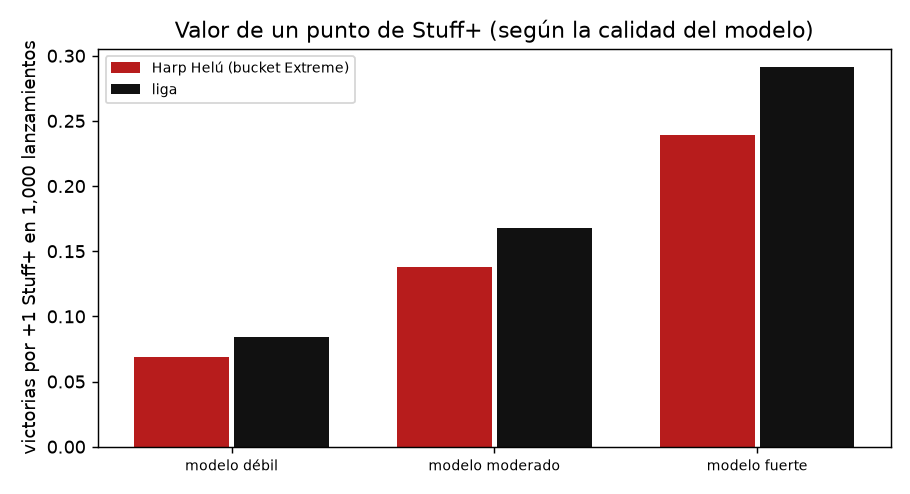
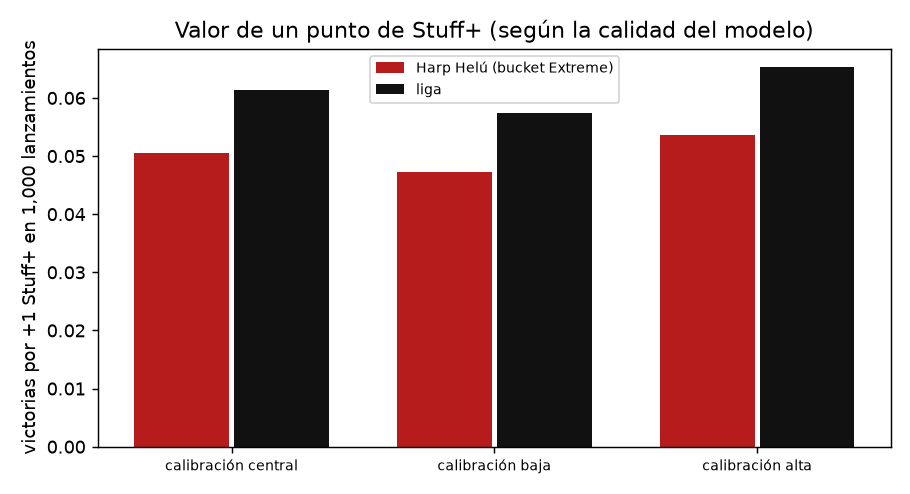
feat(value): real Stuff+ sigma from bundle v1 + out-of-fold calibration slope; drop assumed scenarios (HACK-035 follow-up, joahan-1 #118)
Claude-Session: https://claude.ai/code/session_012QvTm5JZKjKqvrSQeErsZd

diff --git a/analysis/business_value/run.py b/analysis/business_value/run.py
@@ -14,8 +14,10 @@ import matplotlib.pyplot as plt
 import numpy as np
 import pandas as pd
 
-from stuffplus import targets
+from analysis.stuff_model import run as stuff_run
+from stuffplus import splits
 from stuffplus import value as V
+from stuffplus.bundle import load_bundle
 from stuffplus.io import load_raw
 from stuffplus.physics import parks
 from stuffplus.schema import clean
@@ -24,15 +26,14 @@ warnings.filterwarnings("ignore")
 OUT = Path("reports/business_value")
 OUT.mkdir(parents=True, exist_ok=True)
 NO, MED, EXT = "No Altitude", "Medium Altitude", "Extreme Altitude"
-R2_SCENARIOS = {"modelo débil (R²=0.25 % del xRV)": 0.0025, "modelo moderado (R²=1 %)": 0.01, "modelo fuerte (R²=3 %)": 0.03}
 PITCH_GRID = (100, 500, 1000, 2500)
 RED, BLACK = "#B71C1C", "#111111"
 
 raw = clean(load_raw())
-df, _, _ = targets.build(raw)
+df = stuff_run.prepare(raw)  # targets (rv_x) + rasgos; mismo marco con el que se entrena Stuff+
 
 # --- 1. marcadores, equipo-temporadas y exponente pitagórico
-scores = V.game_scores(df)
+scores = V.game_scores(raw)
 maps = parks.load_maps(raw)
 pm = maps["park_map"].drop_duplicates("game_anon_id").set_index("game_anon_id")
 ts = V.team_seasons(scores, pm)
@@ -68,9 +69,20 @@ pitches_per_start = float(per_start.median())
 games_per_team_season = float(ts["games"].median())
 home_starts = max(int(round(games_per_team_season / 2 / 5)), 1)  # juegos de local por temporada en los datos / rotación de 5
 
-# --- 4. escenarios de σ(xRV predicho) y tabla de conversión
+# --- 4. σ real del Stuff+ (bundle v1) y calibración fuera de muestra → carreras por punto
+bundle = load_bundle()
+st = bundle.manifest["scalers"]["stuff"]["stats"]
+sigma = float(st["__all__"]["sd"])
+sigma_years = {k: float(v["sd"]) for k, v in st.items() if k != "__all__"}
+folds = list(splits.pitcher_group_kfold(df))
+oof = stuff_run.StuffModel().oof(df, folds)  # xRV predicho fuera de muestra, por pitcher
+cal = V.calibration_slope(oof["xrv"].to_numpy(float), df["rv_x"].to_numpy(float), df["pitcher_anon_id"].to_numpy())
+pd.DataFrame([dict(sigma_scaler_all=sigma, **{f"sigma_{k}": v for k, v in sigma_years.items()}, **cal,
+                   bundle_version=bundle.manifest["version"], bundle_created=bundle.manifest["created_at"])]).round(6).to_csv(
+    OUT / "stuff_scale_calibration.csv", index=False)
 sd_rv = float(df["rv_x"].std())
-sigmas = {k: V.sigma_from_variance_explained(sd_rv, r2) for k, r2 in R2_SCENARIOS.items()}
+sigmas = {"calibración central": sigma * cal["slope"], "calibración baja (IC 2.5 %)": sigma * cal["lo"],
+          "calibración alta (IC 97.5 %)": sigma * cal["hi"]}  # σ efectiva: realizado = pendiente × predicho
 conv = V.conversion_table(sigmas, PITCH_GRID, {"liga": rpw["liga"], "Harp Helú (bucket Extreme)": rpw[EXT]})
 conv.round(5).to_csv(OUT / "conversion_table.csv", index=False)
 
@@ -111,9 +123,11 @@ lines = [
     f"**Lectura:** en el Harp Helú (bucket Extreme) se anota más, así que cada carrera ahorrada vale **menos** victorias que en la liga "
     f"({rpw[EXT]:.1f} vs {rpw['liga']:.1f} carreras por victoria).", "",
     "## Tabla de conversión: +1 punto de Stuff+ → carreras → victorias", "",
-    "Por definición de la escala (HACK-013), 1 punto = 0.1 σ del xRV *predicho* por lanzamiento. Esa σ depende del modelo final (HACK-010/012), "
-    "que todavía no está integrado, así que se muestran **escenarios de calidad del modelo** (fracción de la varianza del `rv_x` por lanzamiento que explica; "
-    f"σ(rv_x) = {sd_rv:.3f}). **No son resultados del modelo**: cuando exista el bundle final se sustituye la σ real en `analysis/business_value/run.py`.", "",
+    f"Por definición de la escala (HACK-013), 1 punto = 0.1 σ del xRV predicho por lanzamiento, y σ sale del **bundle {bundle.manifest['version']}** "
+    f"(`scalers.stuff.stats`, creado {bundle.manifest['created_at']}): σ = {sigma:.5f} carreras por lanzamiento (por temporada {', '.join(f'{k}: {v:.5f}' for k, v in sigma_years.items())}). "
+    f"Las carreras *realizadas* por carrera predicha se miden fuera de muestra (validación cruzada por pitcher): pendiente de calibración **{cal['slope']:.2f}** "
+    f"[IC 95 % por pitcher {cal['lo']:.2f}, {cal['hi']:.2f}] sobre {cal['n']:,} lanzamientos. Entonces +1 punto ≈ {sigma * cal['slope'] * 0.1:.2e} carreras por lanzamiento "
+    "(filas «calibración baja/alta» = extremos del IC). Sin escenarios supuestos: la σ y la calibración son del modelo real.", "",
     tbl(conv, ["escenario", "lanzamientos", "entorno", "carreras", "victorias"], "{:.4g}"), "",
     f"Referencia: un abridor lanza ~{pitches_per_start:.0f} lanzamientos por apertura (mediana de los datos).", "",
     "## Ejemplo: valor de un brazo a prueba de altura", "",
@@ -128,7 +142,9 @@ lines = [
     f"Brecha entre el brazo de alta pérdida y el de a prueba de altura: **{ex.attrs['gap_runs']:.1f} carreras ≈ {ex.attrs['gap_wins']:.2f} victorias** en esa temporada de aperturas en casa.", "",
     "## Advertencias", "",
     "- `rv_x` valora las bolas en juego con la altitud como rasgo (HACK-030): el costo de la altura incluye parte del modelo de contacto, no solo los lanzamientos.",
-    "- La tabla Stuff+ → carreras usa escenarios, no el modelo final (aún no integrado). Las cifras absolutas cambiarán; la fórmula y el cociente entre entornos no.",
+    "- La σ es la del bundle v1 reconstruido localmente con `analysis/stuff_model/run.py` (los bundles no se comparten por git); si el modelo se reentrena, hay que volver a correr este análisis.",
+    "- La calibración se mide sobre el xRV predicho fuera de muestra (modelo de cinco resultados), mientras la escala del bundle usa el modelo destilado (R² 0.92 con él): son aproximaciones del mismo modelo.",
+    "- A este nivel de calibración el valor de un punto por lanzamiento es pequeño: el efecto aparece en sumas grandes (mil lanzamientos o más) y en grupos de lanzamientos, no en un lanzamiento suelto.",
     "- Marcadores reconstruidos: partidos incompletos en los datos o carreras fuera de los lanzamientos pueden sesgar; los datos solo cubren una muestra de la temporada por equipo.",
     "- Linealización pitagórica válida cerca de un equipo promedio; ±1σ en sensibilidad supone dispersión aproximadamente normal.",
     "- La identidad CDMX vs Puebla sigue sin verificar (HACK-003): «entorno Extreme» agrupa los parques de altura.",

diff --git a/stuffplus/value.py b/stuffplus/value.py
@@ -6,8 +6,8 @@ Cadena:
 3. ``runs_per_win``: con W% = 1/(1+(RA/RS)^x) y r carreras por equipo-juego, una carrera menos permitida por juego
    vale x/(4r) de W%, o sea **carreras por victoria = 4r/x** (r mayor en altura ⇒ cada carrera vale menos).
 4. ``runs_per_stuff_point``: por definición de la escala (HACK-013), 1 punto de Stuff+ = 0.1·σ de xRV *predicho* por
-   lanzamiento; con un modelo calibrado, eso son carreras por lanzamiento. σ viene del modelo (bundle) o de un
-   escenario de varianza explicada; **no se inventa**: sin modelo final se presentan escenarios etiquetados.
+   lanzamiento; las carreras realizadas dependen de la pendiente de calibración fuera de muestra (``calibration_slope``).
+   σ viene del bundle del modelo (``scalers.stuff.stats``); no se inventa.
 5. ``conversion_table`` y ``altitude_proof_example``: puntos → carreras → victorias en casa (CDMX) y en la liga.
 """
 from __future__ import annotations
@@ -100,6 +100,28 @@ def runs_per_stuff_point(sigma_xrv: float, calibration: float = 1.0) -> float:
 
     ``sigma_xrv``: desviación estándar por lanzamiento del xRV *predicho* (la que usa ``PlusScaler``)."""
     return POINT_SD_FRACTION * float(sigma_xrv) * float(calibration)
+
+
+def calibration_slope(x, y, groups, n_boot: int = 1000, seed: int = SEED) -> dict:
+    """Pendiente de calibración de ``y`` (rv_x observado) sobre ``x`` (xRV predicho fuera de muestra): carreras realizadas
+    por carrera predicha. IC 95 % bootstrap por grupo (pitcher), con sumas por grupo (no recalcula nada por fila)."""
+    x, y = np.asarray(x, float), np.asarray(y, float)
+    ok = np.isfinite(x) & np.isfinite(y)
+    codes, uniq = pd.factorize(pd.Series(np.asarray(groups)[ok]))
+    k = len(uniq)
+    sums = {n: np.bincount(codes, weights=v, minlength=k) for n, v in
+            {"n": np.ones(ok.sum()), "x": x[ok], "y": y[ok], "xy": x[ok] * y[ok], "xx": x[ok] ** 2}.items()}
+
+    def slope(c):
+        n, sx, sy = c @ sums["n"], c @ sums["x"], c @ sums["y"]
+        return ((c @ sums["xy"]) - sx * sy / n) / ((c @ sums["xx"]) - sx**2 / n)
+
+    point = slope(np.ones(k))
+    rng = np.random.default_rng(seed)
+    boots = np.array([slope(rng.multinomial(k, np.full(k, 1 / k)).astype(float)) for _ in range(n_boot)])
+    lo, hi = np.percentile(boots, [2.5, 97.5])
+    return {"slope": float(point), "lo": float(lo), "hi": float(hi), "sd_x": float(x[ok].std()), "n": int(ok.sum()),
+            "n_groups": int(k)}
 
 
 def sigma_from_variance_explained(sd_rv: float, r2: float) -> float:

diff --git a/tests/test_value.py b/tests/test_value.py
@@ -72,6 +72,16 @@ def test_altitude_sensitivity_no_heterogeneity_gives_tau_zero_but_positive_bound
     assert s["tau"] < 0.012 and s["tau_hi"] > s["tau"] and s["mean_delta"] == pytest.approx(0.01, abs=0.004)
 
 
+def test_calibration_slope_recovers_planted_slope():
+    rng = np.random.default_rng(5)
+    n, g = 20000, 200
+    groups = rng.integers(0, g, n)
+    x = rng.normal(0, 0.01, n)
+    y = 0.6 * x + rng.normal(0, 0.2, n)  # modelo sobreestima: solo 0.6 de lo predicho se realiza
+    c = V.calibration_slope(x, y, groups, n_boot=300)
+    assert c["lo"] < 0.6 < c["hi"] and c["hi"] < 3.0 and c["n_groups"] == g
+
+
 def test_altitude_proof_example_orders_arms():
     ex = V.altitude_proof_example(0.010, 0.006, 90, 15, 15.0)
     assert ex.iloc[0].carreras_extra > ex.iloc[1].carreras_extra > ex.iloc[2].carreras_extra

diff --git a/reports/business_value/summary.md b/reports/business_value/summary.md
@@ -18,34 +18,34 @@ Exponente pitagórico **x = 1.90** (IC 95 % bootstrap 1.62–2.15, 60 equipo-tem
 
 ## Tabla de conversión: +1 punto de Stuff+ → carreras → victorias
 
-Por definición de la escala (HACK-013), 1 punto = 0.1 σ del xRV *predicho* por lanzamiento. Esa σ depende del modelo final (HACK-010/012), que todavía no está integrado, así que se muestran **escenarios de calidad del modelo** (fracción de la varianza del `rv_x` por lanzamiento que explica; σ(rv_x) = 0.198). **No son resultados del modelo**: cuando exista el bundle final se sustituye la σ real en `analysis/business_value/run.py`.
+Por definición de la escala (HACK-013), 1 punto = 0.1 σ del xRV predicho por lanzamiento, y σ sale del **bundle v1** (`scalers.stuff.stats`, creado 2026-10-13T22:22:40+00:00): σ = 0.01055 carreras por lanzamiento (por temporada 2024: 0.01063, 2025: 0.01057, 2026: 0.01033). Las carreras *realizadas* por carrera predicha se miden fuera de muestra (validación cruzada por pitcher): pendiente de calibración **0.69** [IC 95 % por pitcher 0.64, 0.73] sobre 627,602 lanzamientos. Entonces +1 punto ≈ 7.24e-04 carreras por lanzamiento (filas «calibración baja/alta» = extremos del IC). Sin escenarios supuestos: la σ y la calibración son del modelo real.
 
 | escenario | lanzamientos | entorno | carreras | victorias |
 |---|---|---|---|---|
-| modelo débil (R²=0.25 % del xRV) | 100 | liga | 0.09899 | 0.0084 |
-| modelo débil (R²=0.25 % del xRV) | 100 | Harp Helú (bucket Extreme) | 0.09899 | 0.006908 |
-| modelo débil (R²=0.25 % del xRV) | 500 | liga | 0.495 | 0.042 |
-| modelo débil (R²=0.25 % del xRV) | 500 | Harp Helú (bucket Extreme) | 0.495 | 0.03454 |
-| modelo débil (R²=0.25 % del xRV) | 1000 | liga | 0.9899 | 0.084 |
-| modelo débil (R²=0.25 % del xRV) | 1000 | Harp Helú (bucket Extreme) | 0.9899 | 0.06908 |
-| modelo débil (R²=0.25 % del xRV) | 2500 | liga | 2.475 | 0.21 |
-| modelo débil (R²=0.25 % del xRV) | 2500 | Harp Helú (bucket Extreme) | 2.475 | 0.1727 |
-| modelo moderado (R²=1 %) | 100 | liga | 0.198 | 0.0168 |
-| modelo moderado (R²=1 %) | 100 | Harp Helú (bucket Extreme) | 0.198 | 0.01382 |
-| modelo moderado (R²=1 %) | 500 | liga | 0.9899 | 0.084 |
-| modelo moderado (R²=1 %) | 500 | Harp Helú (bucket Extreme) | 0.9899 | 0.06908 |
-| modelo moderado (R²=1 %) | 1000 | liga | 1.98 | 0.168 |
-| modelo moderado (R²=1 %) | 1000 | Harp Helú (bucket Extreme) | 1.98 | 0.1382 |
-| modelo moderado (R²=1 %) | 2500 | liga | 4.95 | 0.42 |
-| modelo moderado (R²=1 %) | 2500 | Harp Helú (bucket Extreme) | 4.95 | 0.3454 |
-| modelo fuerte (R²=3 %) | 100 | liga | 0.3429 | 0.0291 |
-| modelo fuerte (R²=3 %) | 100 | Harp Helú (bucket Extreme) | 0.3429 | 0.02393 |
-| modelo fuerte (R²=3 %) | 500 | liga | 1.715 | 0.1455 |
-| modelo fuerte (R²=3 %) | 500 | Harp Helú (bucket Extreme) | 1.715 | 0.1197 |
-| modelo fuerte (R²=3 %) | 1000 | liga | 3.429 | 0.291 |
-| modelo fuerte (R²=3 %) | 1000 | Harp Helú (bucket Extreme) | 3.429 | 0.2393 |
-| modelo fuerte (R²=3 %) | 2500 | liga | 8.573 | 0.7274 |
-| modelo fuerte (R²=3 %) | 2500 | Harp Helú (bucket Extreme) | 8.573 | 0.5983 |
+| calibración central | 100 | liga | 0.07236 | 0.00614 |
+| calibración central | 100 | Harp Helú (bucket Extreme) | 0.07236 | 0.00505 |
+| calibración central | 500 | liga | 0.3618 | 0.0307 |
+| calibración central | 500 | Harp Helú (bucket Extreme) | 0.3618 | 0.02525 |
+| calibración central | 1000 | liga | 0.7236 | 0.0614 |
+| calibración central | 1000 | Harp Helú (bucket Extreme) | 0.7236 | 0.0505 |
+| calibración central | 2500 | liga | 1.809 | 0.1535 |
+| calibración central | 2500 | Harp Helú (bucket Extreme) | 1.809 | 0.1263 |
+| calibración baja (IC 2.5 %) | 100 | liga | 0.0677 | 0.005744 |
+| calibración baja (IC 2.5 %) | 100 | Harp Helú (bucket Extreme) | 0.0677 | 0.004724 |
+| calibración baja (IC 2.5 %) | 500 | liga | 0.3385 | 0.02872 |
+| calibración baja (IC 2.5 %) | 500 | Harp Helú (bucket Extreme) | 0.3385 | 0.02362 |
+| calibración baja (IC 2.5 %) | 1000 | liga | 0.677 | 0.05744 |
+| calibración baja (IC 2.5 %) | 1000 | Harp Helú (bucket Extreme) | 0.677 | 0.04724 |
+| calibración baja (IC 2.5 %) | 2500 | liga | 1.692 | 0.1436 |
+| calibración baja (IC 2.5 %) | 2500 | Harp Helú (bucket Extreme) | 1.692 | 0.1181 |
+| calibración alta (IC 97.5 %) | 100 | liga | 0.07688 | 0.006524 |
+| calibración alta (IC 97.5 %) | 100 | Harp Helú (bucket Extreme) | 0.07688 | 0.005365 |
+| calibración alta (IC 97.5 %) | 500 | liga | 0.3844 | 0.03262 |
+| calibración alta (IC 97.5 %) | 500 | Harp Helú (bucket Extreme) | 0.3844 | 0.02683 |
+| calibración alta (IC 97.5 %) | 1000 | liga | 0.7688 | 0.06524 |
+| calibración alta (IC 97.5 %) | 1000 | Harp Helú (bucket Extreme) | 0.7688 | 0.05365 |
+| calibración alta (IC 97.5 %) | 2500 | liga | 1.922 | 0.1631 |
+| calibración alta (IC 97.5 %) | 2500 | Harp Helú (bucket Extreme) | 1.922 | 0.1341 |
 
 Referencia: un abridor lanza ~77 lanzamientos por apertura (mediana de los datos).
 
@@ -66,7 +66,9 @@ Brecha entre el brazo de alta pérdida y el de a prueba de altura: **8.1 carrera
 ## Advertencias
 
 - `rv_x` valora las bolas en juego con la altitud como rasgo (HACK-030): el costo de la altura incluye parte del modelo de contacto, no solo los lanzamientos.
-- La tabla Stuff+ → carreras usa escenarios, no el modelo final (aún no integrado). Las cifras absolutas cambiarán; la fórmula y el cociente entre entornos no.
+- La σ es la del bundle v1 reconstruido localmente con `analysis/stuff_model/run.py` (los bundles no se comparten por git); si el modelo se reentrena, hay que volver a correr este análisis.
+- La calibración se mide sobre el xRV predicho fuera de muestra (modelo de cinco resultados), mientras la escala del bundle usa el modelo destilado (R² 0.92 con él): son aproximaciones del mismo modelo.
+- A este nivel de calibración el valor de un punto por lanzamiento es pequeño: el efecto aparece en sumas grandes (mil lanzamientos o más) y en grupos de lanzamientos, no en un lanzamiento suelto.
 - Marcadores reconstruidos: partidos incompletos en los datos o carreras fuera de los lanzamientos pueden sesgar; los datos solo cubren una muestra de la temporada por equipo.
 - Linealización pitagórica válida cerca de un equipo promedio; ±1σ en sensibilidad supone dispersión aproximadamente normal.
 - La identidad CDMX vs Puebla sigue sin verificar (HACK-003): «entorno Extreme» agrupa los parques de altura.
